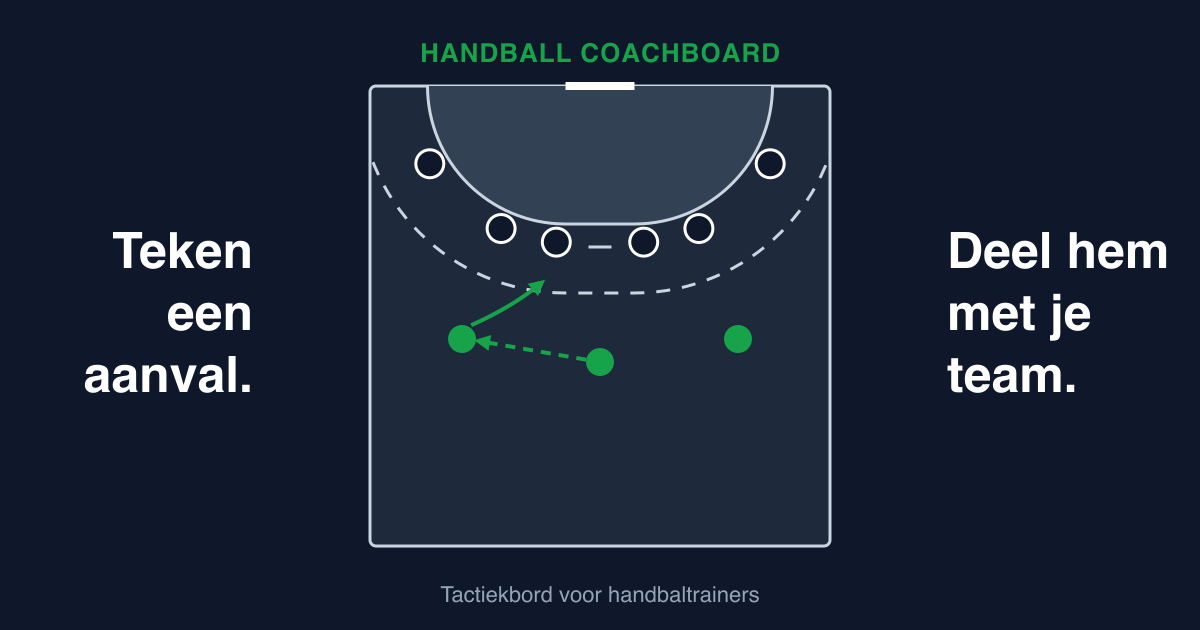
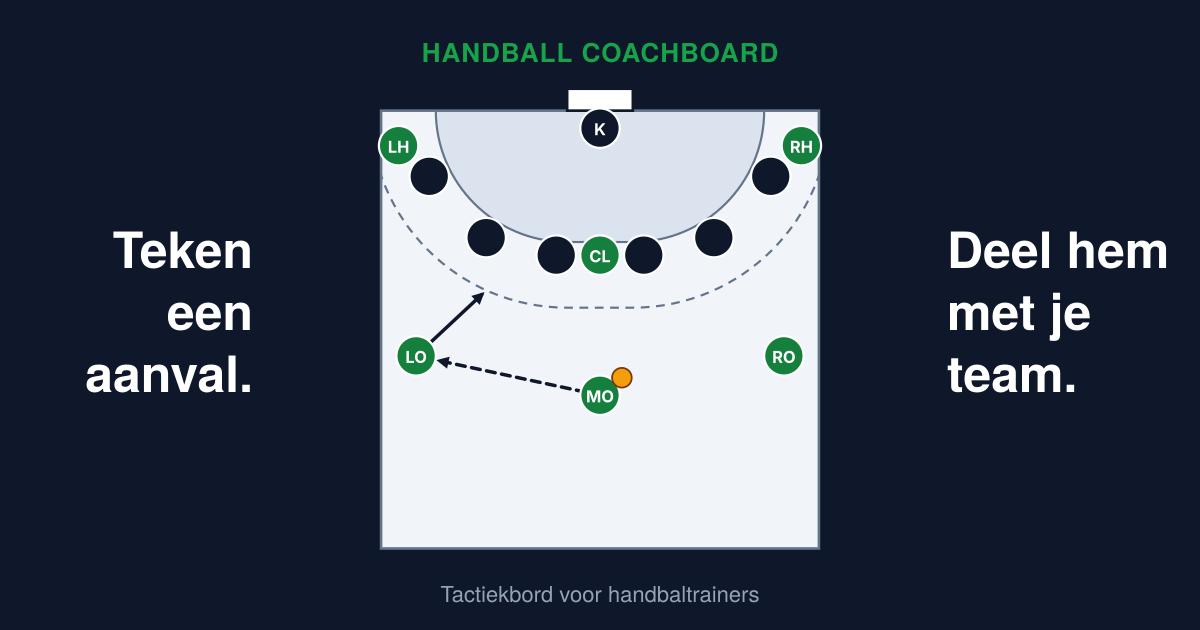
Default share image: the board's own light court, with the new lineup
The image behind the board page and every shared board was a separate
drawing on a dark court with three backs, older than the board's look and
than the lineup of #75 (Kay, 3 November 2026: "het donkere veld klopt
niet"). og-default.mjs now renders Court.svelte through Vite, like
courtPng() does for the library items: the default lineup with a pass from
the centre back and the left back's run, on the board's light court. The
texts stay as they were. Re-run after a change to the lineup or the court.

Claude-Session: https://claude.ai/code/session_019QuAvkY1963sgymCr7e2TD

diff --git a/AGENTS.md b/AGENTS.md
@@ -14,7 +14,7 @@ Static Astro 7 site for handball coaches. The product is the tactics board at `/
 | `npm run e2e` | End-to-end tests (Playwright) in mobile Chromium and WebKit. Builds, then serves `dist/` with `wrangler dev` on port 8787. Outside CI it reuses a server already on that port and skips the build, so stop a `wrangler dev` of your own first. A separate CI job, not part of `verify`. First time: `npx playwright install chromium webkit`. |
 | `npx playwright test e2e/board.spec.ts` | One e2e file; add `-g "<test name>"` for one test, `--project=iphone` or `--project=android` for one browser. |
 | `E2E_BASE_URL=https://handballcoachboard.com npx playwright test e2e/security.spec.ts` | An e2e file against a deployed site instead of `wrangler dev`. Run `npm run build` on the deployed commit first: the page list comes from `dist/`. |
-| `node scripts/og-default.mjs nl` | Re-renders a language's default share image (`public/og-default-nl.png`; `en` is `og-default.png`). One-off, with local fonts; commit the PNG. |
+| `node scripts/og-default.mjs nl` | Re-renders a language's default share image (`public/og-default-nl.png`; `en` is `og-default.png`): the board's own `Court.svelte` with the default lineup, through Vite. One-off, with local fonts; commit the PNG. Re-run both after a change to the default lineup or the court's look. |
 | `node scripts/favicons.mjs` | Renders `public/favicon.ico` and `public/apple-touch-icon.png` from `public/favicon.svg` (the brand mark). One-off; commit the results. |
 
 Commit only when `npm run verify` exits with code 0. Check the exit code itself, not the output: a pipe through `tail` or `head` hides a failure.
